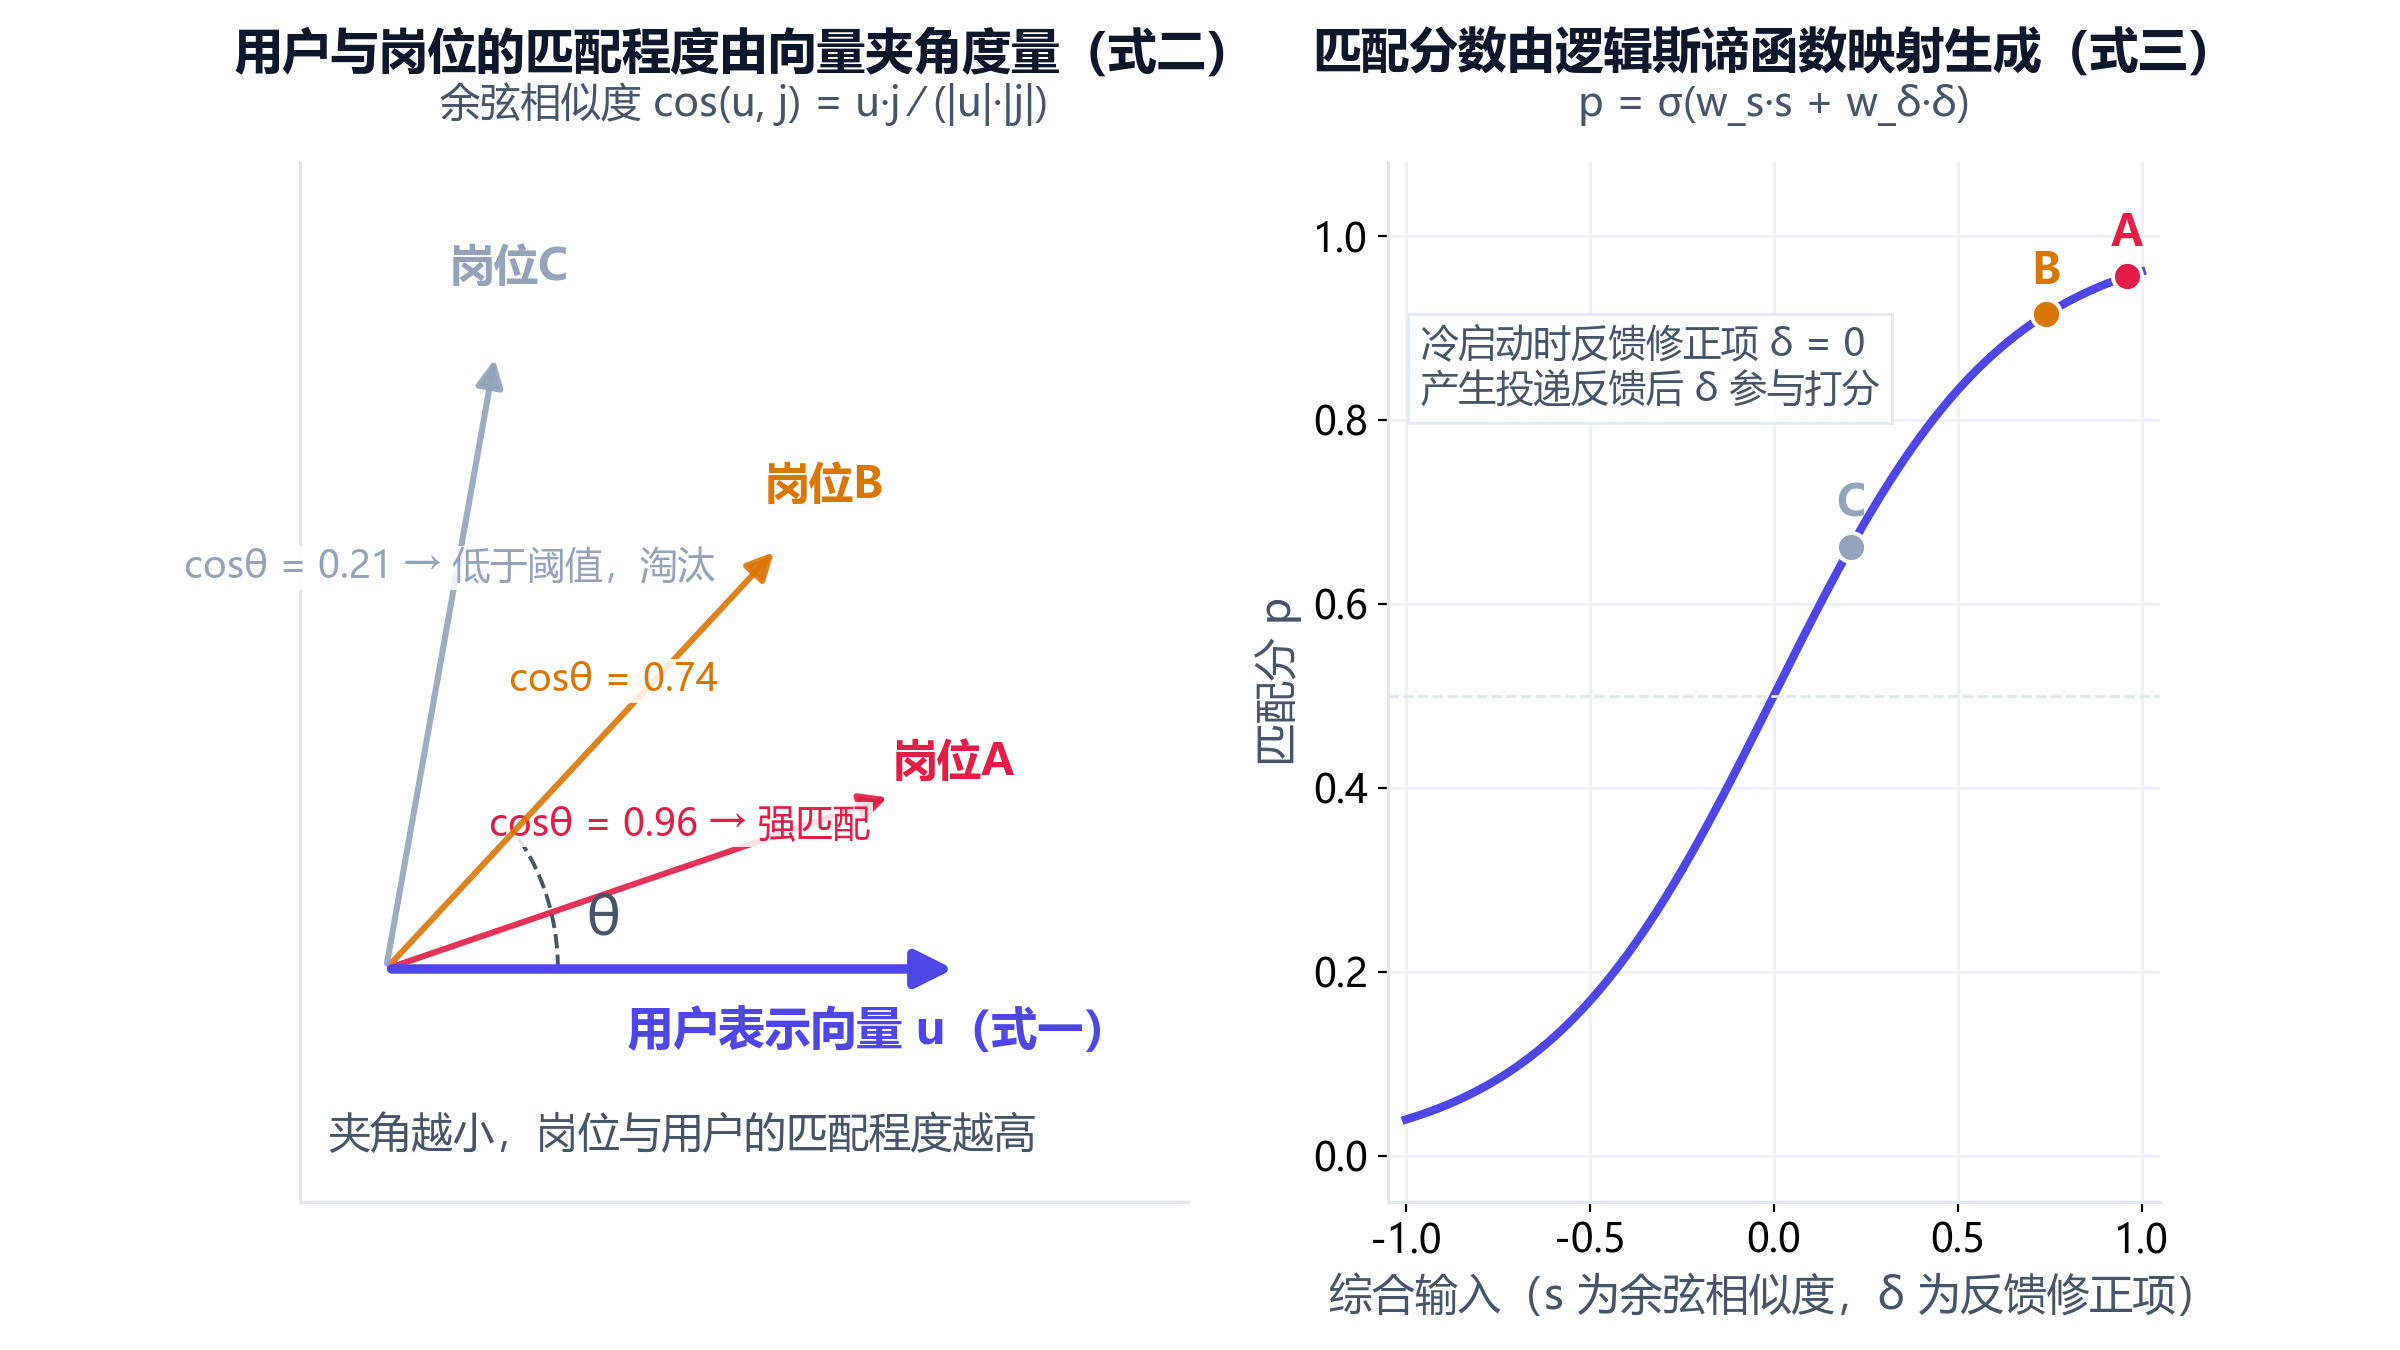
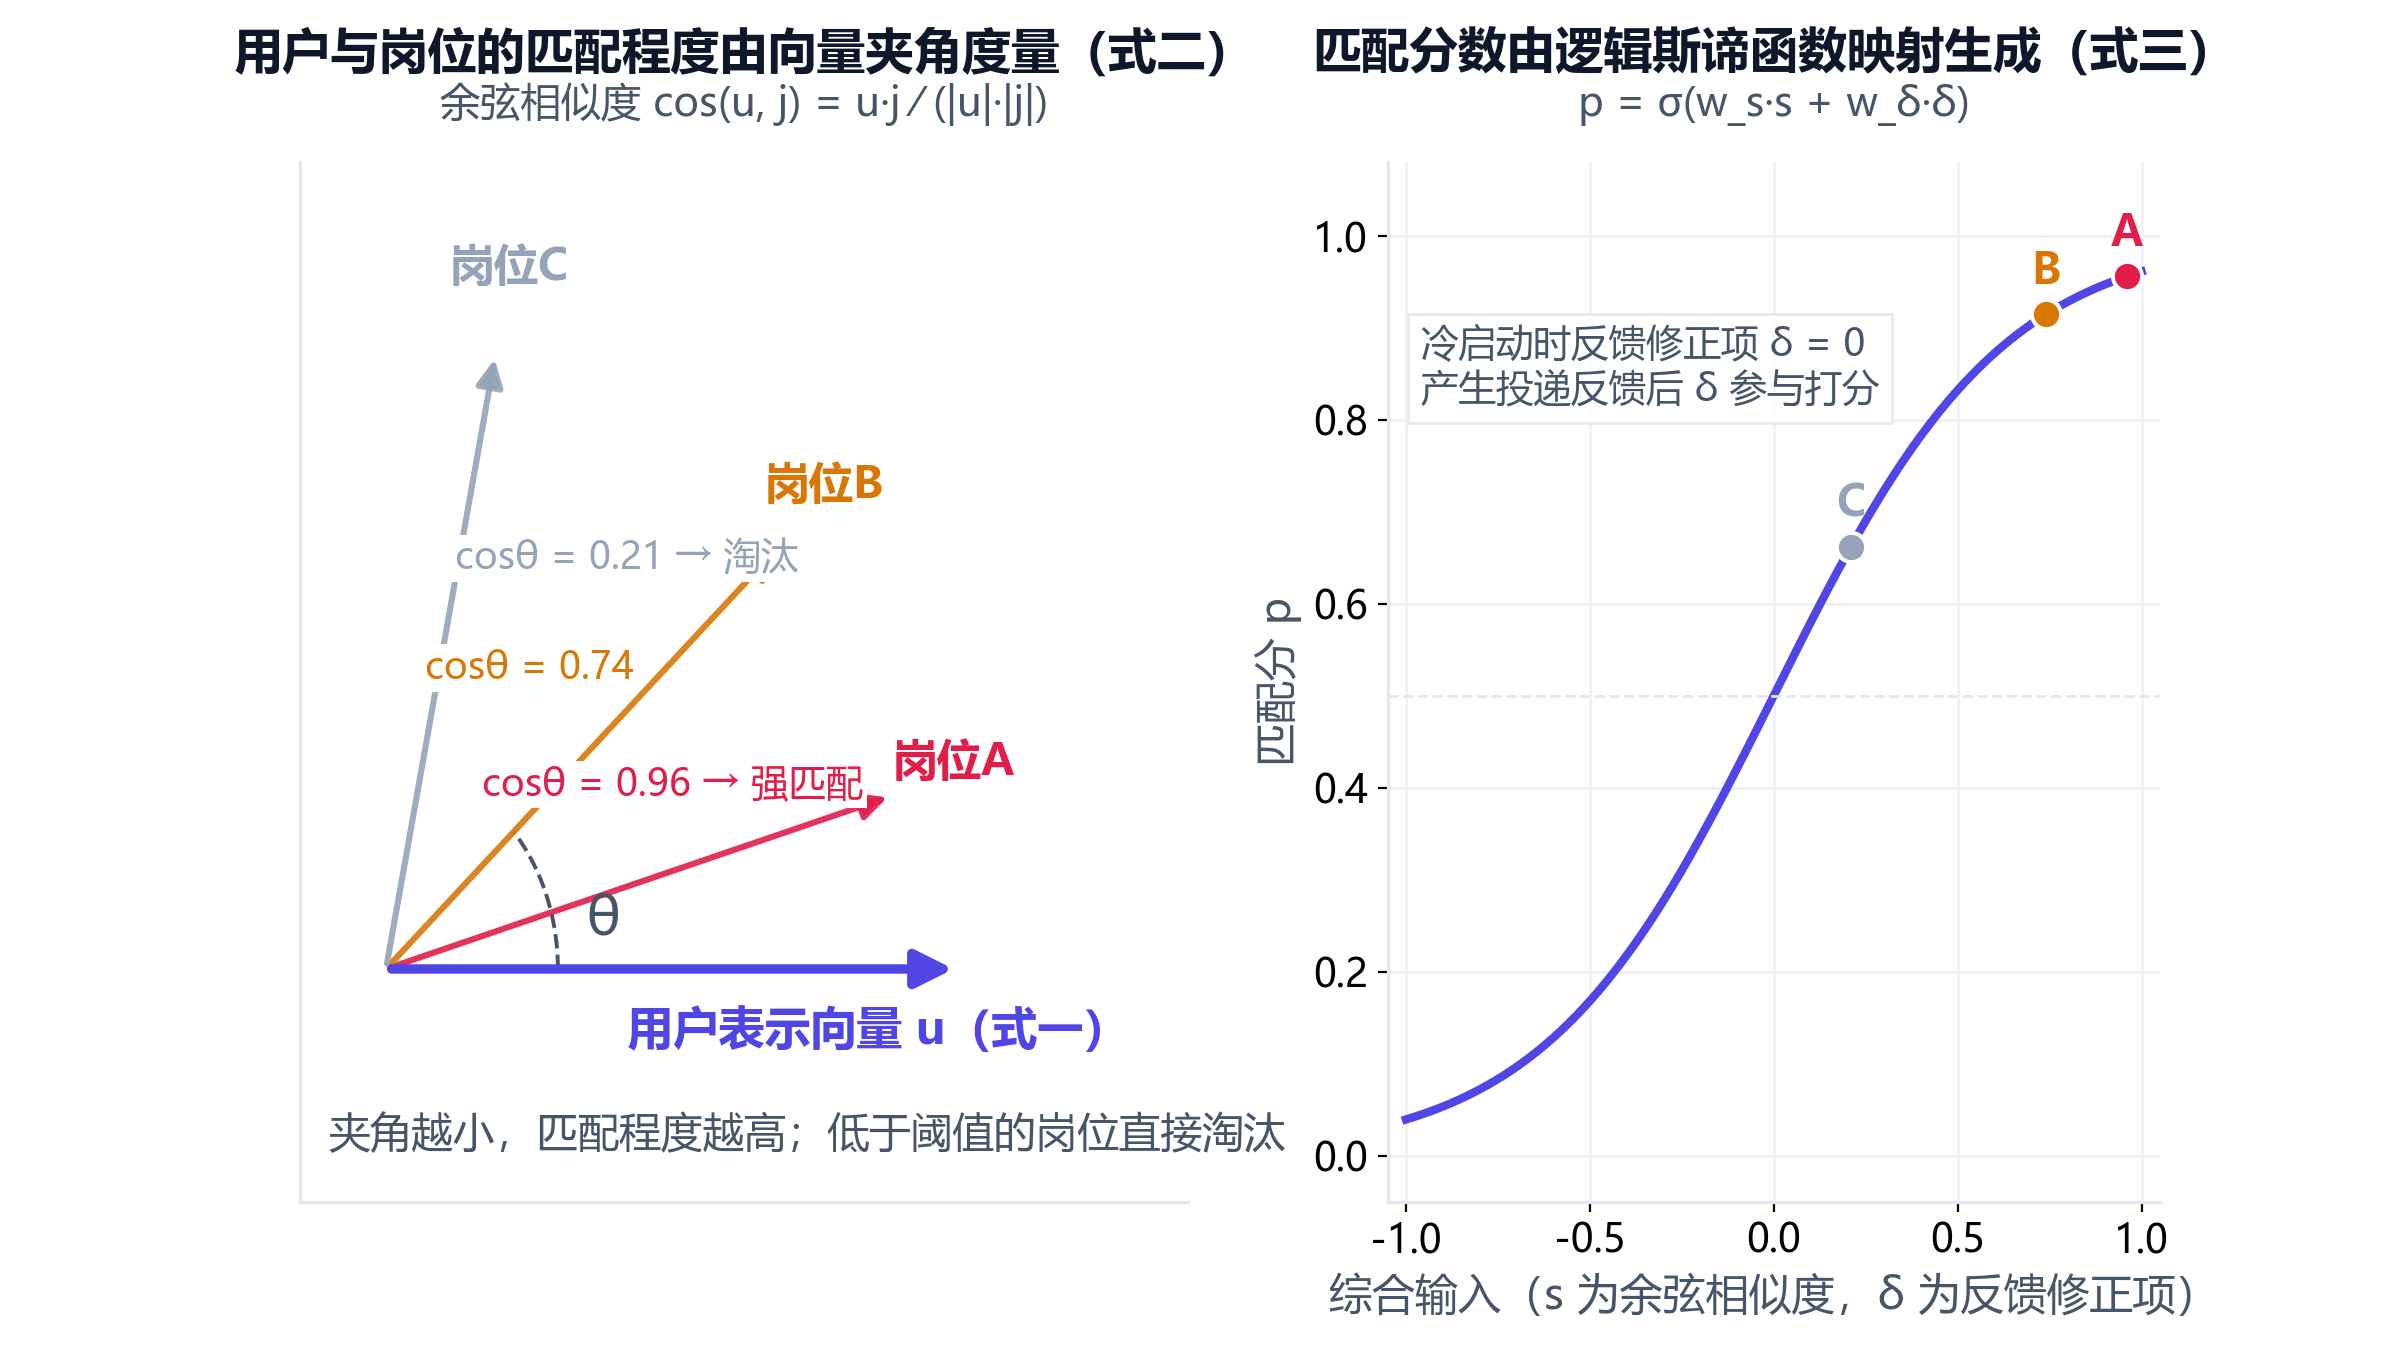
fix(defense): fig3 余弦标注移出箭头线,彻底消除文字压线

diff --git a/_defense_figs.py b/_defense_figs.py
@@ -186,29 +186,29 @@ def fig3():
 
     origin = np.array([0.0, 0.0])
     uvec = np.array([1.0, 0.0])
-    jobs = [("岗位A", 16, ACCENT, "cosθ = 0.96", "强匹配"),
-            ("岗位B", 42, GOLD, "cosθ = 0.74", None),
-            ("岗位C", 78, MUTED, "cosθ = 0.21", "低于阈值，淘汰")]
+    jobs = [("岗位A", 16, ACCENT, "cosθ = 0.96 → 强匹配", (0.50, 0.27)),
+            ("岗位B", 42, GOLD, "cosθ = 0.74", (0.25, 0.44)),
+            ("岗位C", 78, MUTED, "cosθ = 0.21 → 淘汰", (0.42, 0.60))]
     ax.add_patch(FancyArrowPatch(origin, uvec, arrowstyle="-|>", mutation_scale=28,
                                  color=PRIMARY, linewidth=3.4, zorder=4))
     ax.text(0.42, -0.11, "用户表示向量 u（式一）", color=PRIMARY, fontsize=16.5,
             fontweight="bold")
-    for name, deg, color, note, verdict in jobs:
+    for name, deg, color, note, note_xy in jobs:
         v = np.array([np.cos(np.radians(deg)), np.sin(np.radians(deg))]) * 0.92
         ax.add_patch(FancyArrowPatch(origin, v, arrowstyle="-|>", mutation_scale=20,
                                      color=color, linewidth=2.2, zorder=3, alpha=0.9))
         ax.text(v[0] * 1.12, v[1] * 1.12, name, color=color, fontsize=16,
                 fontweight="bold", ha="center")
-        lb = note + (" → " + verdict if verdict else "")
-        ax.annotate(lb, v * 0.58, xytext=(0, 12), textcoords="offset points",
-                    color=color, fontsize=13.5, ha="center",
-                    bbox=dict(fc="white", ec="none", alpha=0.85, pad=1.0))
+        # 标注放在箭头之间的空白区，绝不压在箭头线上
+        ax.text(note_xy[0], note_xy[1], note, color=color, fontsize=13.5,
+                ha="center", va="center", zorder=5,
+                bbox=dict(fc="white", ec="none", alpha=1.0, pad=1.5))
     th = np.linspace(0, np.radians(42), 40)
     ax.plot(0.3 * np.cos(th), 0.3 * np.sin(th), color=SLATE, linewidth=1.4, linestyle="--")
     ax.text(0.35, 0.05, "θ", fontsize=19, color=SLATE, style="italic")
     ax.set_xlim(-0.15, 1.4); ax.set_ylim(-0.34, 1.18)
     ax.set_xticks([]); ax.set_yticks([])
-    ax.text(-0.1, -0.26, "夹角越小，岗位与用户的匹配程度越高",
+    ax.text(-0.1, -0.26, "夹角越小，匹配程度越高；低于阈值的岗位直接淘汰",
             fontsize=15, color=SLATE)
     _titles(ax, "用户与岗位的匹配程度由向量夹角度量（式二）",
             "余弦相似度 cos(u, j) = u·j ∕ (|u|·|j|)",
